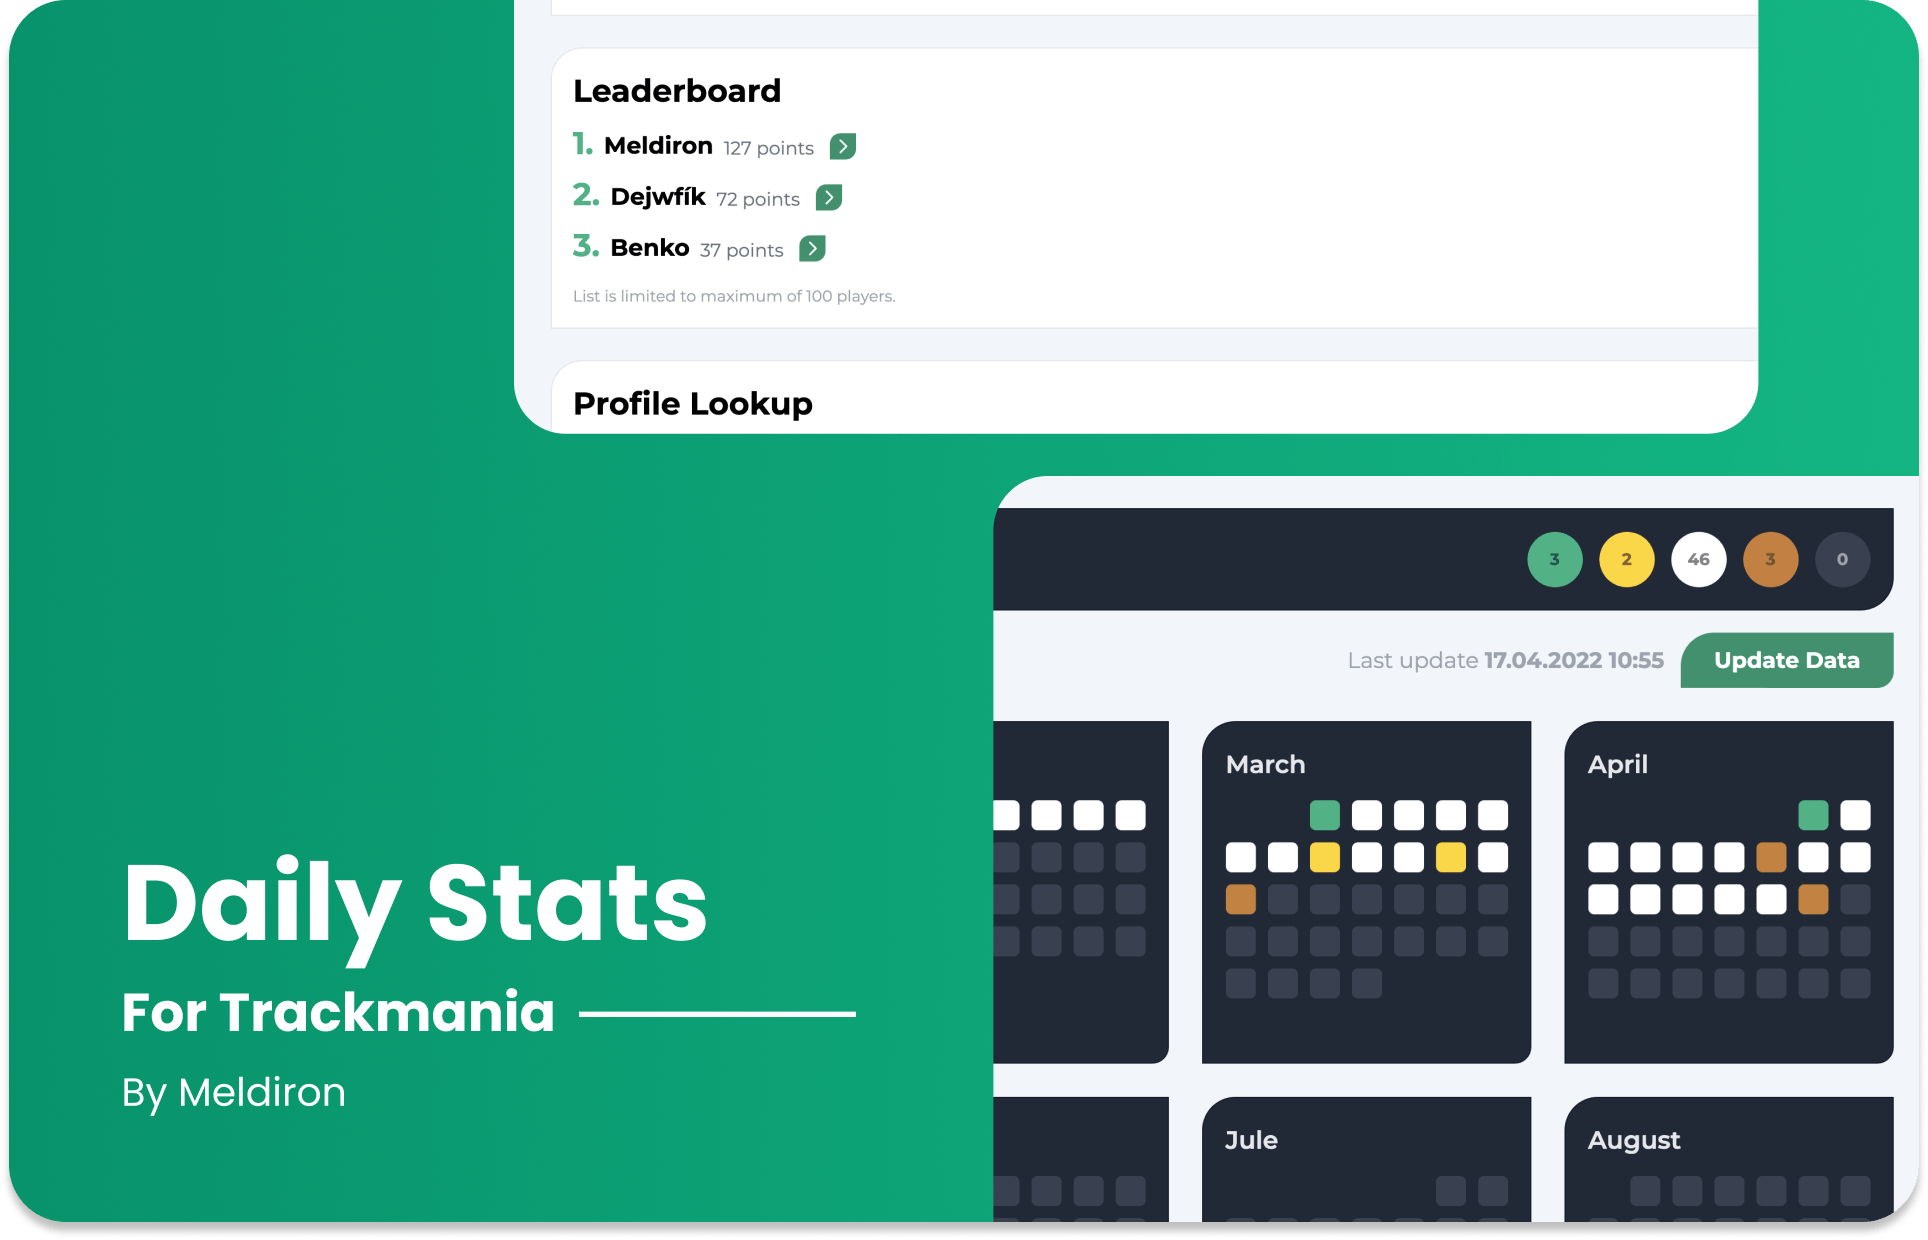
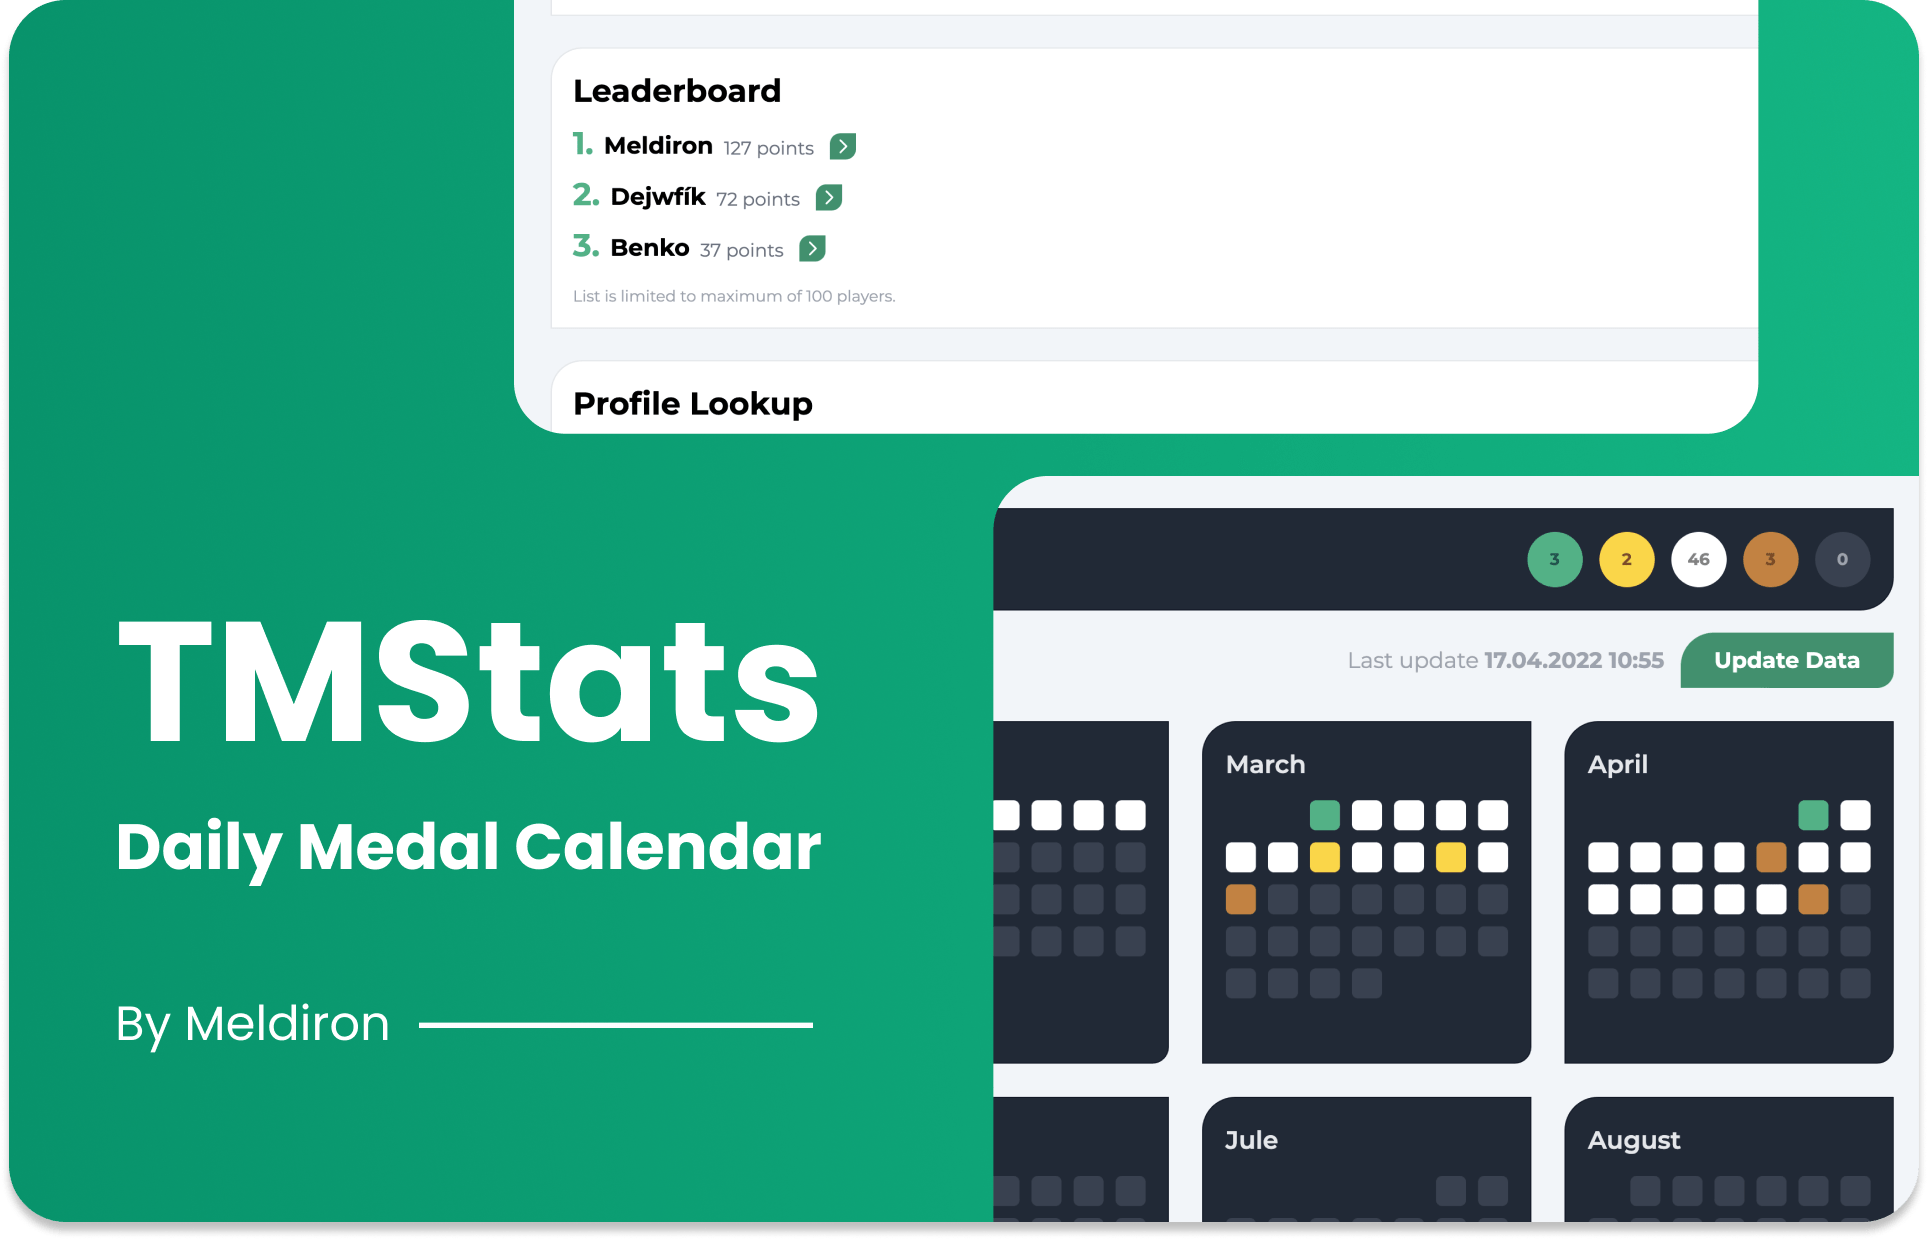
Rename, improve SEO

Changed region(s): [[0.0622, 0.4903, 0.4357, 0.6129], [0.0622, 0.6435, 0.4357, 0.7661], [0.0622, 0.7968, 0.4357, 0.8887]]

diff --git a/src/app.html b/src/app.html
@@ -6,7 +6,7 @@
 		<link rel="icon" href="%svelte.assets%/favicon.png" />
 		<meta name="viewport" content="width=device-width, initial-scale=1" />
 
-		<title>Trackmania - Daily Stats</title>
+		<title>TMStats | Daily Medal Calendar</title>
 
 		<!-- HTML Meta Tags -->
 		<meta
@@ -17,7 +17,7 @@
 		<!-- Facebook Meta Tags -->
 		<meta property="og:url" content="https://trackmania-daily-stats.vercel.app/" />
 		<meta property="og:type" content="website" />
-		<meta property="og:title" content="Trackmania - Daily Stats" />
+		<meta property="og:title" content="TMStats | Daily Medal Calendar" />
 		<meta
 			property="og:description"
 			content="Yearly view of your medals in daily maps. Share your daily maps medals with anyone!"
@@ -28,7 +28,7 @@
 		<meta name="twitter:card" content="summary_large_image" />
 		<meta property="twitter:domain" content="trackmania-daily-stats.vercel.app" />
 		<meta property="twitter:url" content="https://trackmania-daily-stats.vercel.app/" />
-		<meta name="twitter:title" content="Trackmania - Daily Stats" />
+		<meta name="twitter:title" content="TMStats | Daily Medal Calendar" />
 		<meta
 			name="twitter:description"
 			content="Yearly view of your medals in daily maps. Share your daily maps medals with anyone!"

diff --git a/src/routes/index.svelte b/src/routes/index.svelte
@@ -46,7 +46,7 @@
 
 <div class="max-w-5xl w-full mx-auto mt-6 mb-6">
 	<div class="mt-6 rounded-tl-3xl rounded-br-3xl bg-white border border-gray-200 p-4">
-		<h1 class="font-bold text-black text-2xl mb-3">Trackmania Daily Stats</h1>
+		<h1 class="font-bold text-black text-2xl mb-3">TMStats | Daily Medal Calendar</h1>
 
 		<div class="prose">
 			<p>Yearly view of your medals in daily maps. Share your daily maps medals with anyone!</p>
